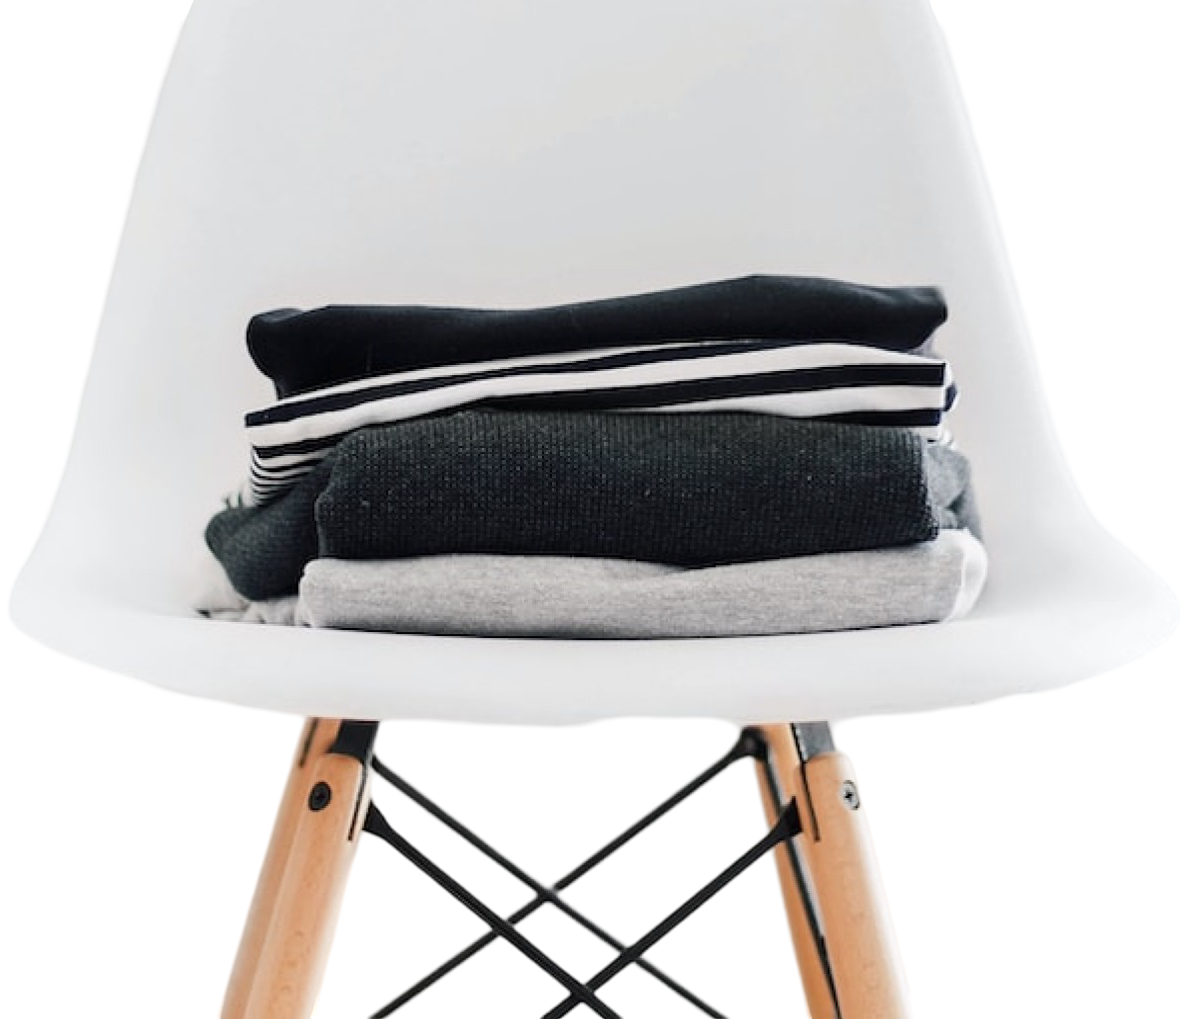
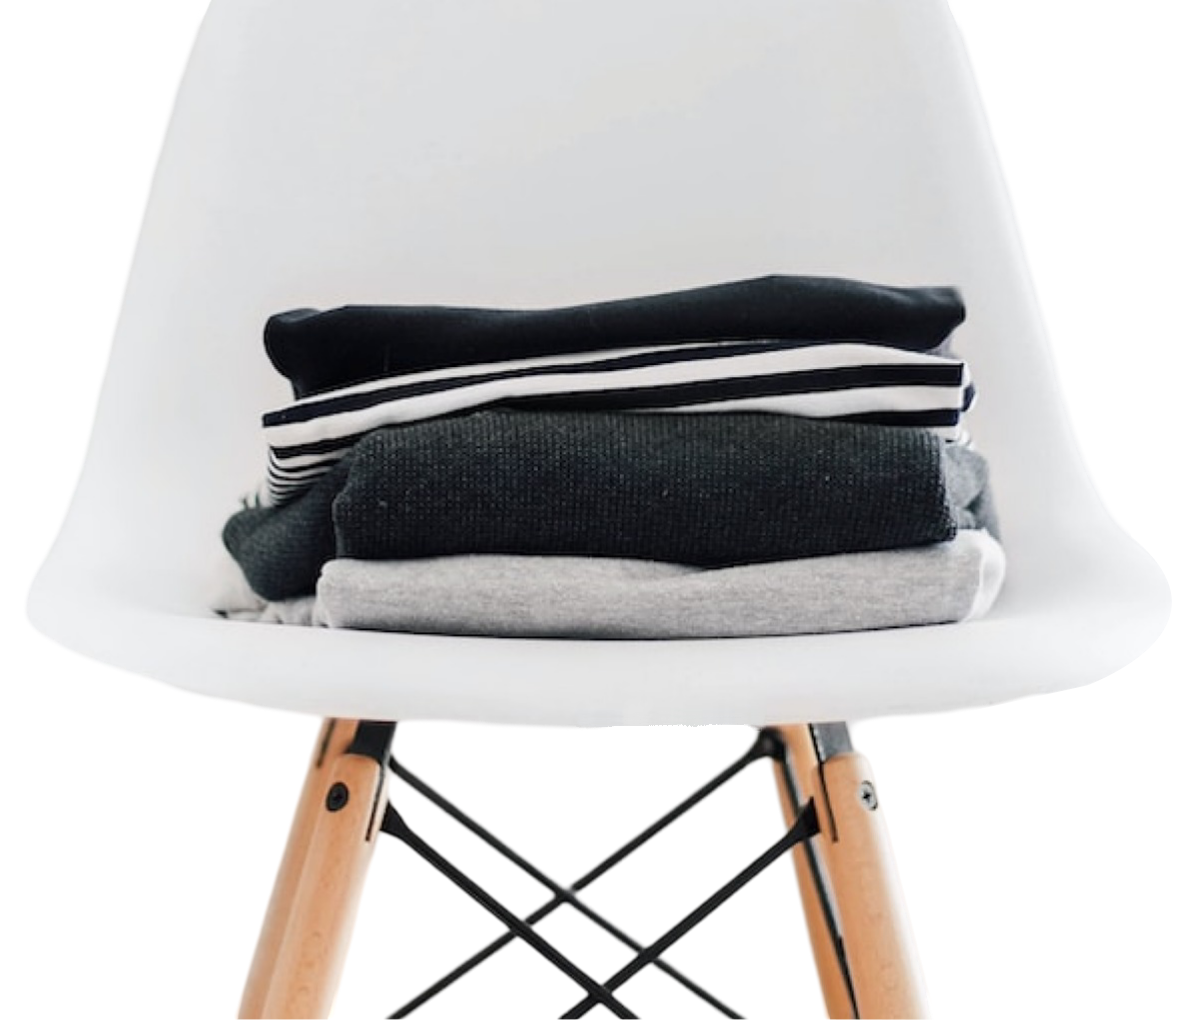
Refactor hero section layout and styles for improved responsiveness and visual appeal

diff --git a/mobile.css b/mobile.css
@@ -72,4 +72,56 @@
   .menu-icon line {
     stroke-width: 1.2;
   }
+
+  .hero-container {
+    width: 100%;
+    gap: 0px;
+  }
+
+  .hero-image {
+    width: 50%;
+  }
+
+  .hero-image img {
+    margin-left: -95%;
+    mask-image: linear-gradient(to left, transparent 0%, black 22%);
+    -webkit-mask-image: linear-gradient(to left, transparent 0%, black 22%);
+  }
+
+  .hero-title {
+    font-size: 40px;
+    display: flex;
+    flex-direction: column;
+    line-height: 40px;
+  }
+
+  .hero-text {
+    transform: scale(0.9);
+    text-align: center;
+  }
+
+  .hero-subtitle {
+    white-space: nowrap;
+    font-size: 11px;
+    letter-spacing: -0.5px;
+  }
+
+  .hero-subtitle span {
+    line-height: 1.8;
+    font-size: 35px;
+  }
+}
+
+@media screen and (max-width: 380px) {
+  .hero-image img {
+    margin-left: -110%;
+  }
+
+  .hero-text {
+    transform: scale(0.8);
+  }
+
+  .hero-subtitle {
+    font-size: 12px;
+  }
 }

diff --git a/index.html b/index.html
@@ -154,7 +154,9 @@
 
   <section class="hero-section">
     <div class="hero-container">
-      <img src="assets/images/chair-with-clothes.png" alt="chair with clothes">
+      <div class="hero-image">
+        <img src="assets/images/chair-with-clothes.png" alt="chair with clothes">
+      </div>
 
       <div class="hero-text">
         <h1 class="hero-title">

diff --git a/style.css b/style.css
@@ -410,9 +410,10 @@
   gap: 25px;
 }
 
-.hero-container img {
+.hero-container .hero-image img {
   height: 330px;
   mix-blend-mode: darken;
+  margin-top: 5px;
 }
 
 .hero-text * {
